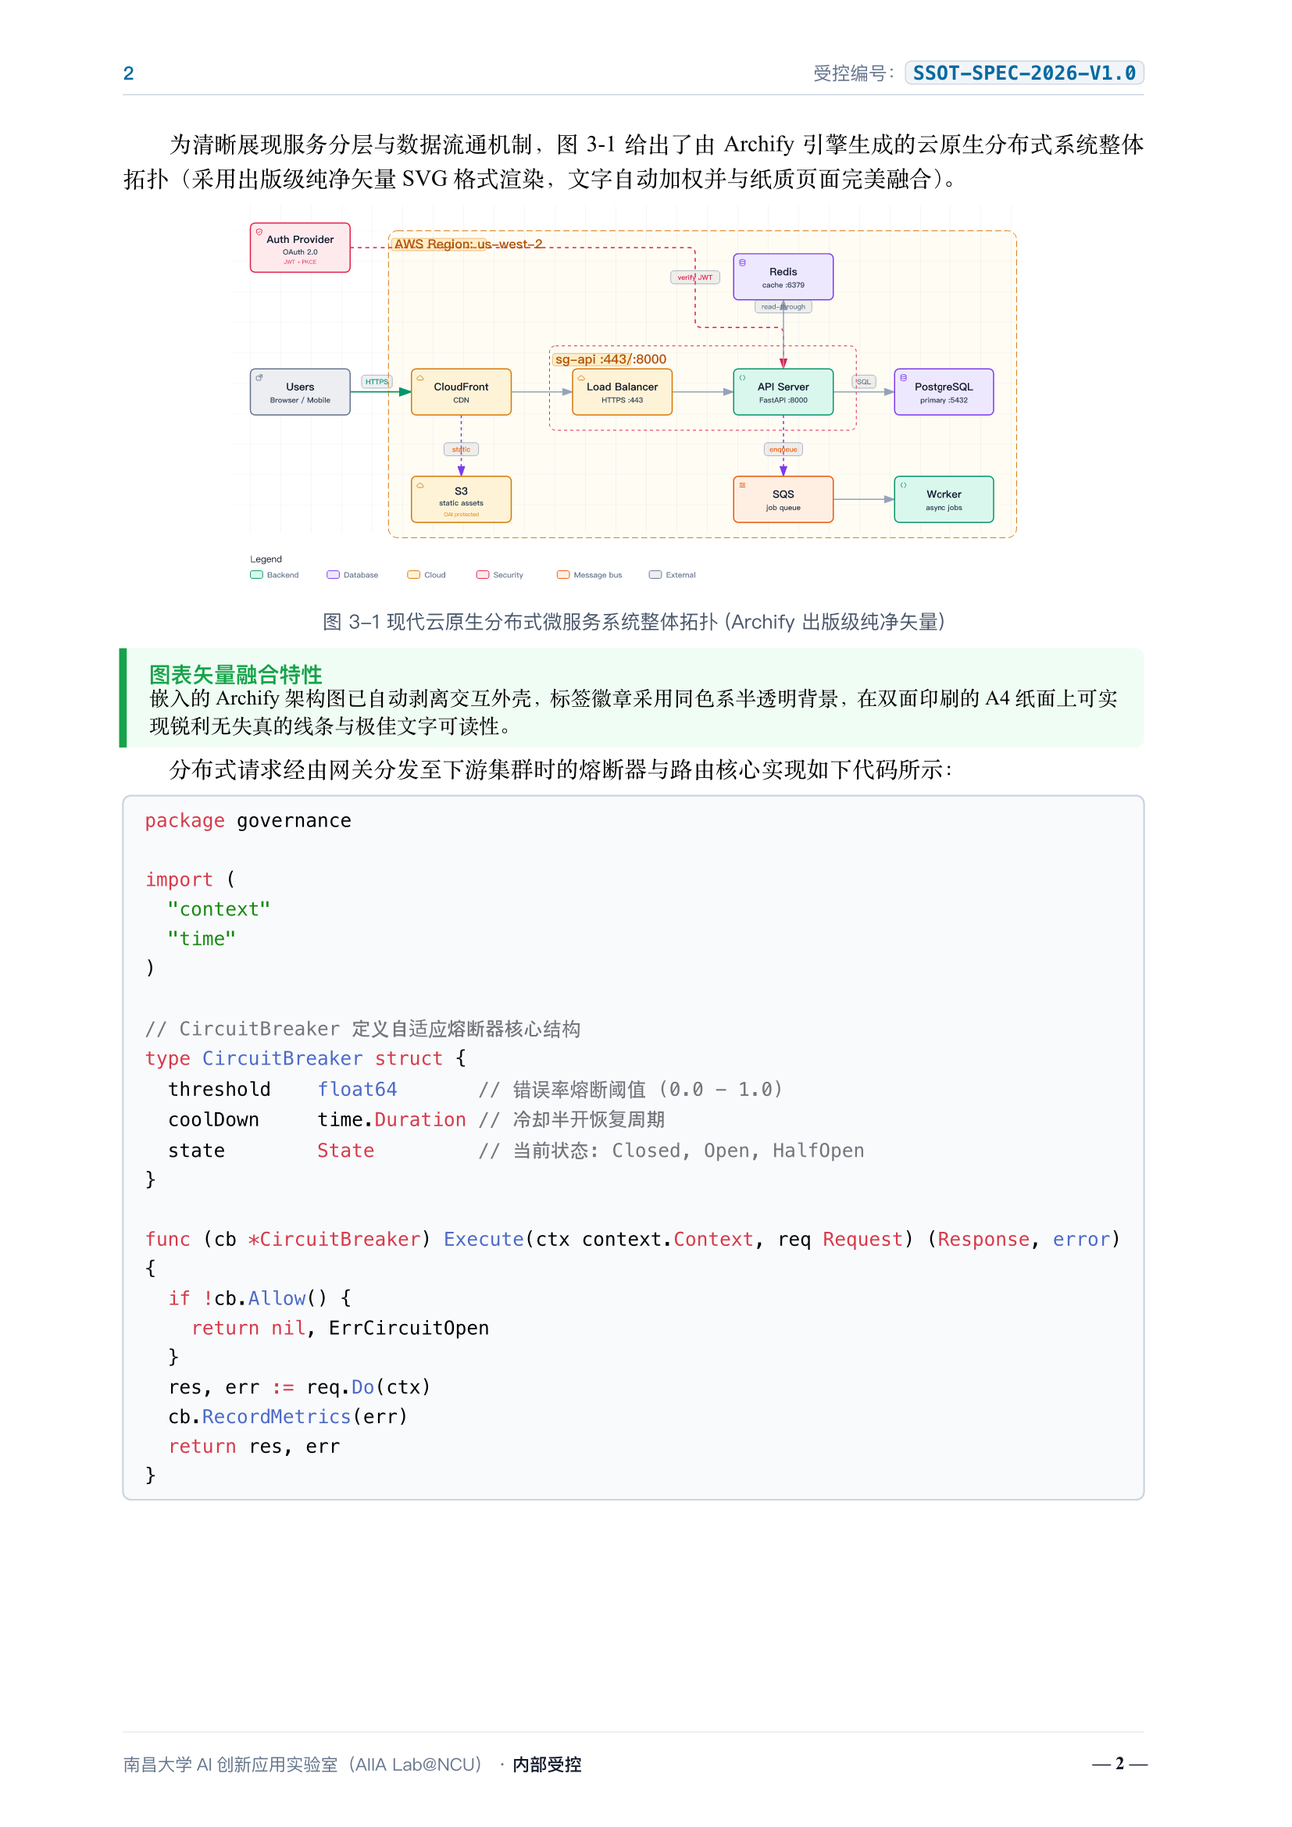
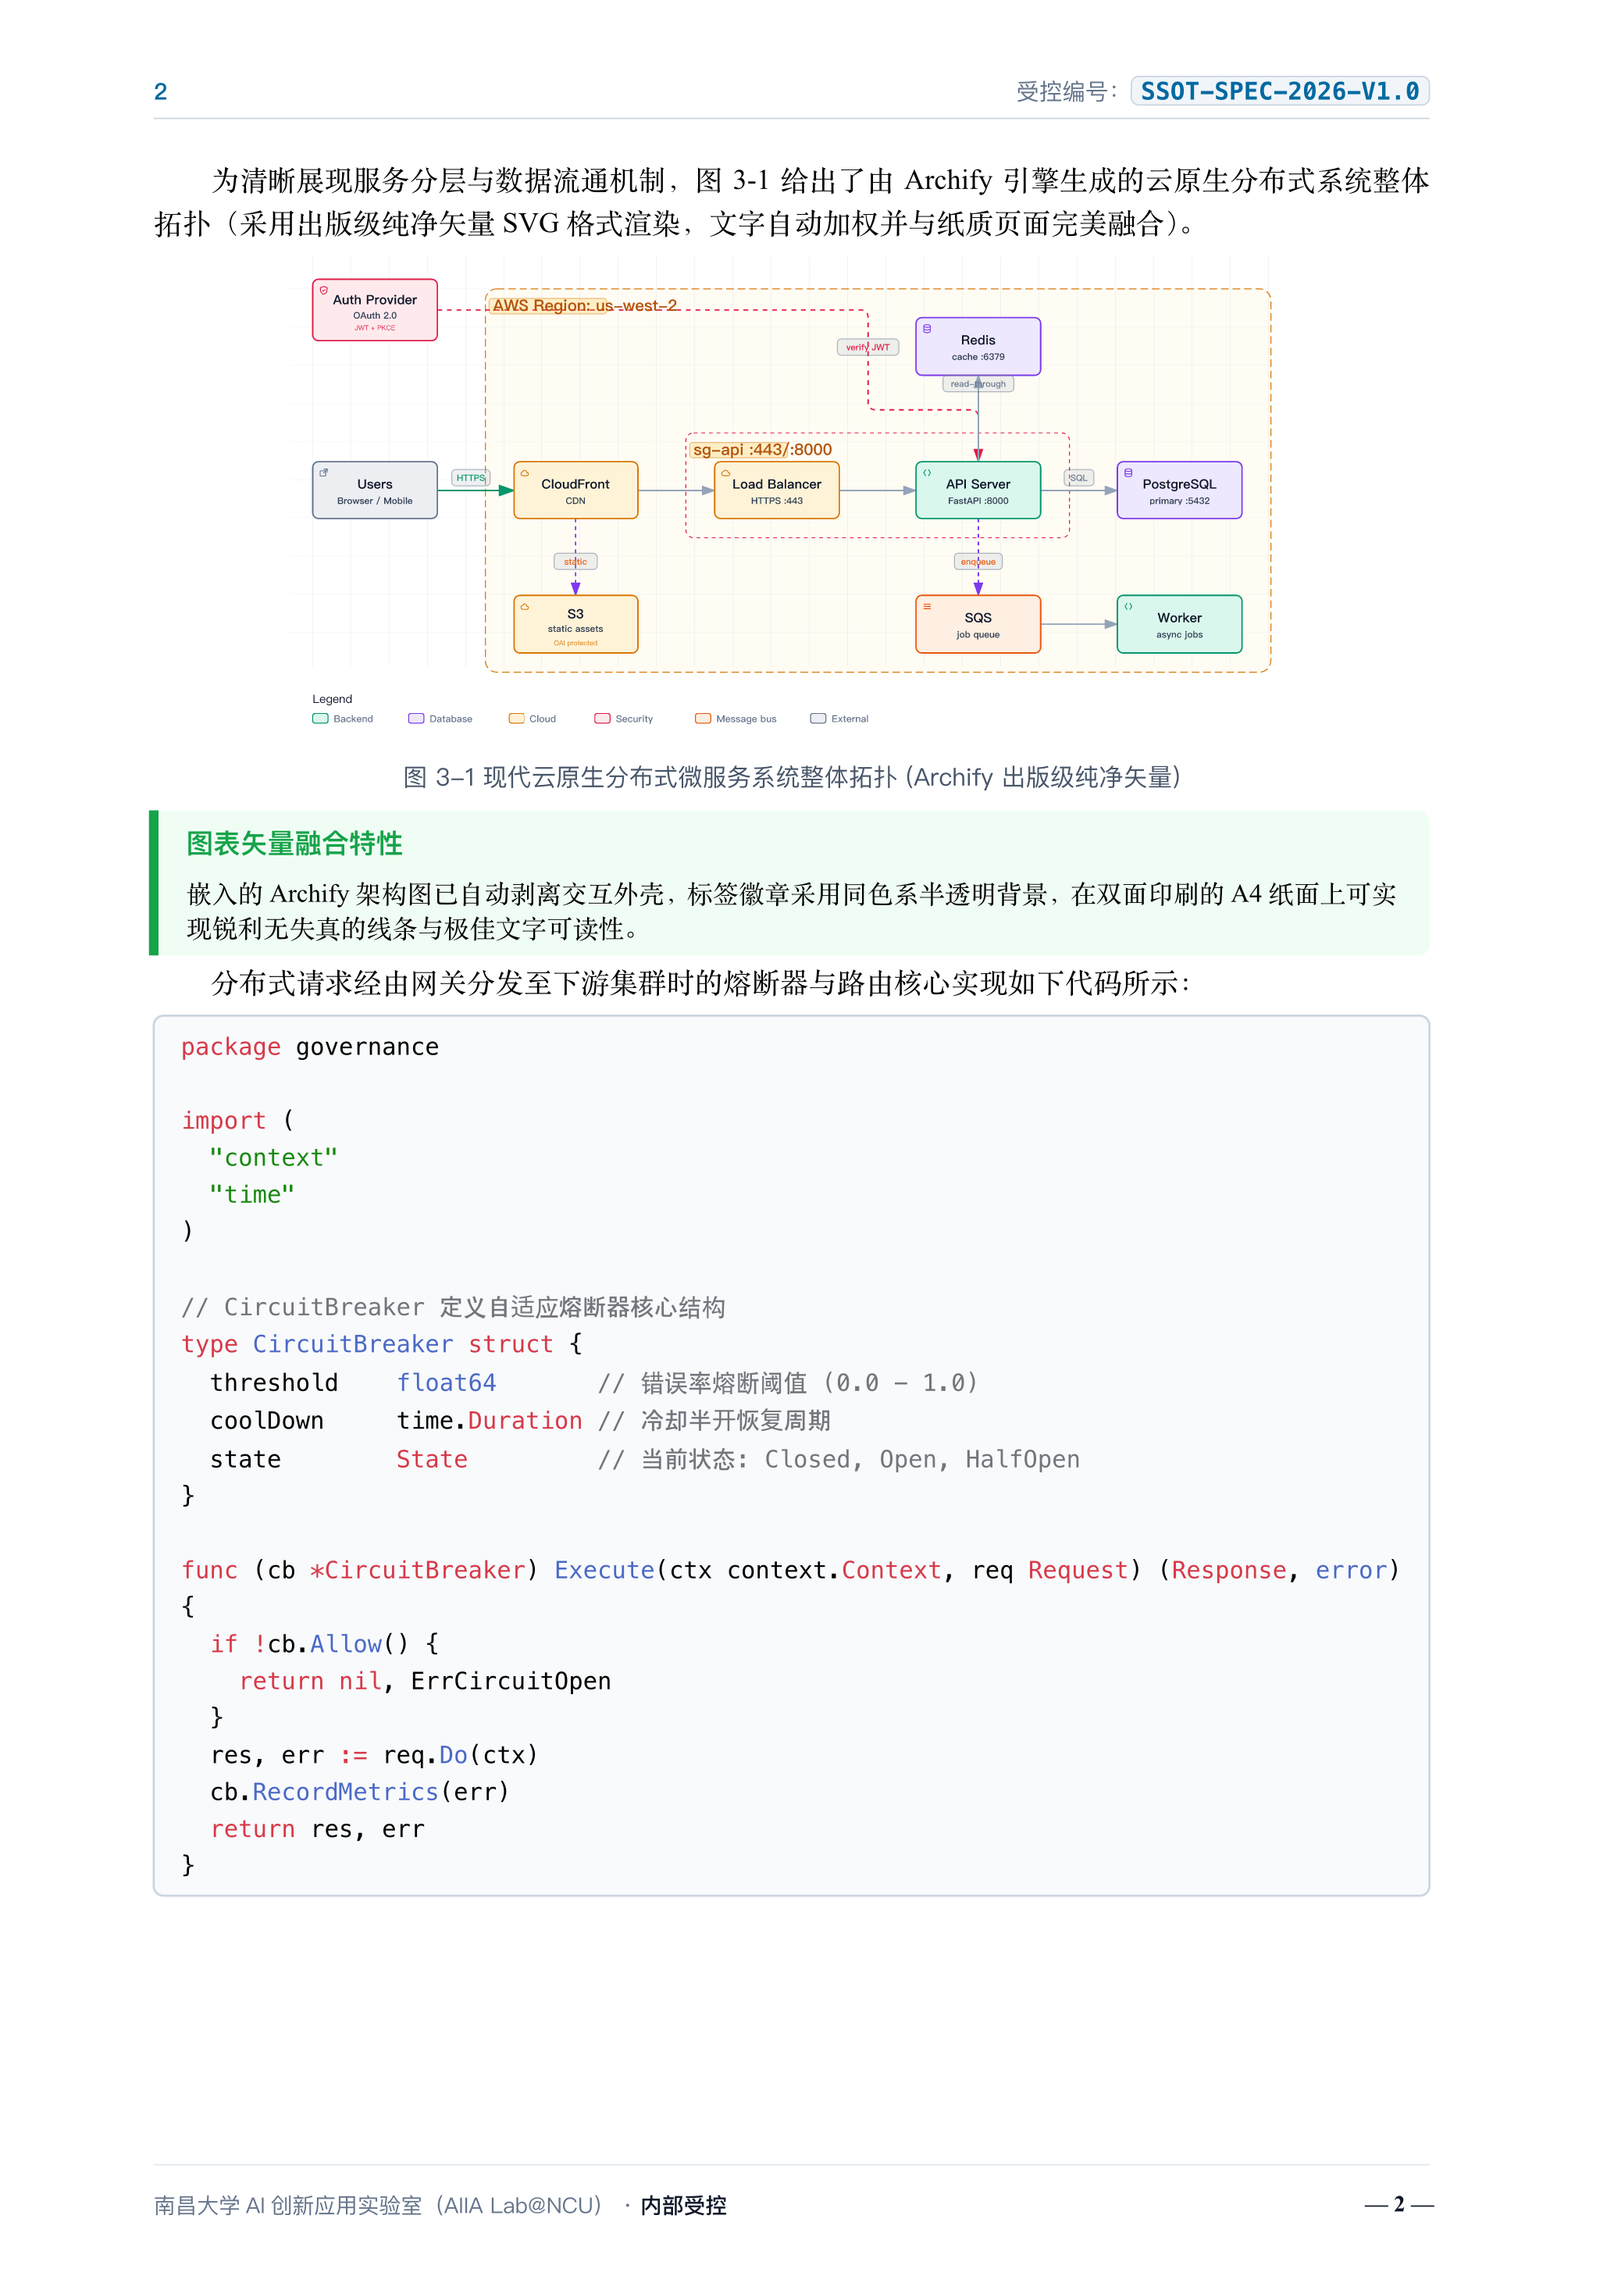
style(typst): refine callout card title spacing to elegant 3pt

diff --git a/skills/typst/scripts/ssot_to_typst.py b/skills/typst/scripts/ssot_to_typst.py
@@ -980,9 +980,8 @@ def convert_ssot_to_typst(md_path: str, mode: str = "book") -> str:
   below: 10pt
 )[
   #set par(first-line-indent: (amount: 0em, all: true), leading: 0.7em)
-  #block(width: 100%, below: 0.65em)[
-    #text(font: ("PingFang SC", "Heiti SC"), weight: "bold", size: 10pt, fill: rgb("{stroke_color}"))[{title_line}]
-  ]
+  #text(font: ("PingFang SC", "Heiti SC"), weight: "bold", size: 10pt, fill: rgb("{stroke_color}"))[{title_line}]
+  #v(3pt)
   #text(size: 9.5pt)[{body_joined}]
 ]
 """)
@@ -1202,82 +1201,6 @@ def convert_ssot_to_typst(md_path: str, mode: str = "book") -> str:
             img_caption = img_match.group(1).strip()
             img_path = img_match.group(2).strip()
 
-            # 针对官方微信公众号推介二维码，输出与教材出版流水线 100% 一致的高级出版级封底卡片
-            if 'aiia_wechat_mp_qr' in img_path or 'wechat_mp_qr' in img_path:
-                if typ_lines and typ_lines[-1].strip().startswith('#block(') and '深入人机协同' in typ_lines[-1]:
-                    typ_lines.pop()
-
-                native_promotion_card = f"""
-#v(1.2em)
-#align(center)[
-  #block(
-    width: 100%,
-    fill: gradient.linear(rgb("#f0fdf4").lighten(70%), rgb("#ffffff"), rgb("#f8fafc"), angle: 135deg),
-    radius: 18pt,
-    inset: (x: 18pt, y: 26pt),
-    stroke: 0.6pt + rgb("#e2e8f0"),
-  )[
-    // 1. 顶部胶囊药丸徽章
-    #box(
-      fill: rgb("#ecfdf5"),
-      stroke: 0.8pt + rgb("#a7f3d0"),
-      radius: 100pt,
-      inset: (x: 14pt, y: 4.5pt),
-    )[
-      #text(font: ("PingFang SC", "Heiti SC"), size: 9pt, weight: "bold", fill: rgb("#059669"))[课外拓展 · 持续进阶]
-    ]
-    #v(8pt)
-    
-    // 2. 核心主标题
-    #text(font: ("PingFang SC", "Heiti SC"), size: 14pt, weight: "bold", fill: rgb("#0f172a"))[深入人机协同 · 探索智能前沿]
-    #v(2pt)
-    
-    // 3. 副标题 / 导语
-    #text(font: ("PingFang SC", "Songti SC"), size: 9.5pt, fill: rgb("#64748b"))[获取最新 AI 动态与使用技巧]
-    #v(18pt)
-    
-    // 4. 中部悬浮白底质感卡片
-    #box(
-      fill: rgb("#ffffff"),
-      radius: 18pt,
-      stroke: 0.8pt + rgb("#e2e8f0"),
-      inset: (x: 22pt, top: 20pt, bottom: 16pt),
-    )[
-      // 二维码浅灰内衬
-      #box(
-        fill: rgb("#f8fafc"),
-        radius: 12pt,
-        inset: 10pt,
-        stroke: 0.6pt + rgb("#f1f5f9"),
-      )[
-        #image("{img_path}", width: 112pt)
-      ]
-      #v(12pt)
-      #box[
-        #text(size: 9.5pt, weight: "bold", fill: rgb("#334155"))[
-          #text(fill: rgb("#10b981"), size: 11pt)[●] 微信扫一扫 · 关注公众号
-        ]
-      ]
-    ]
-    #v(26pt)
-    
-    // 5. 底部署名与平台标识
-    #grid(
-      columns: (1fr, auto, 1fr),
-      align: horizon,
-      line(length: 100%, stroke: 0.5pt + rgb("#cbd5e1")),
-      pad(x: 10pt)[#text(size: 8.5pt, weight: "bold", fill: rgb("#64748b"))[南昌大学 AI 创新应用实验室]],
-      line(length: 100%, stroke: 0.5pt + rgb("#cbd5e1")),
-    )
-    #v(3pt)
-    #text(font: ("Times New Roman", "Arial"), size: 7.5pt, tracking: 0.15em, fill: rgb("#94a3b8"))[NCU SMART COURSEWARE PLATFORM]
-  ]
-]
-#v(1.0em)
-"""
-                typ_lines.append(native_promotion_card)
-                i += 1
-                continue
             caption_block = ""
             if img_caption:
                 caption_block = f"""
